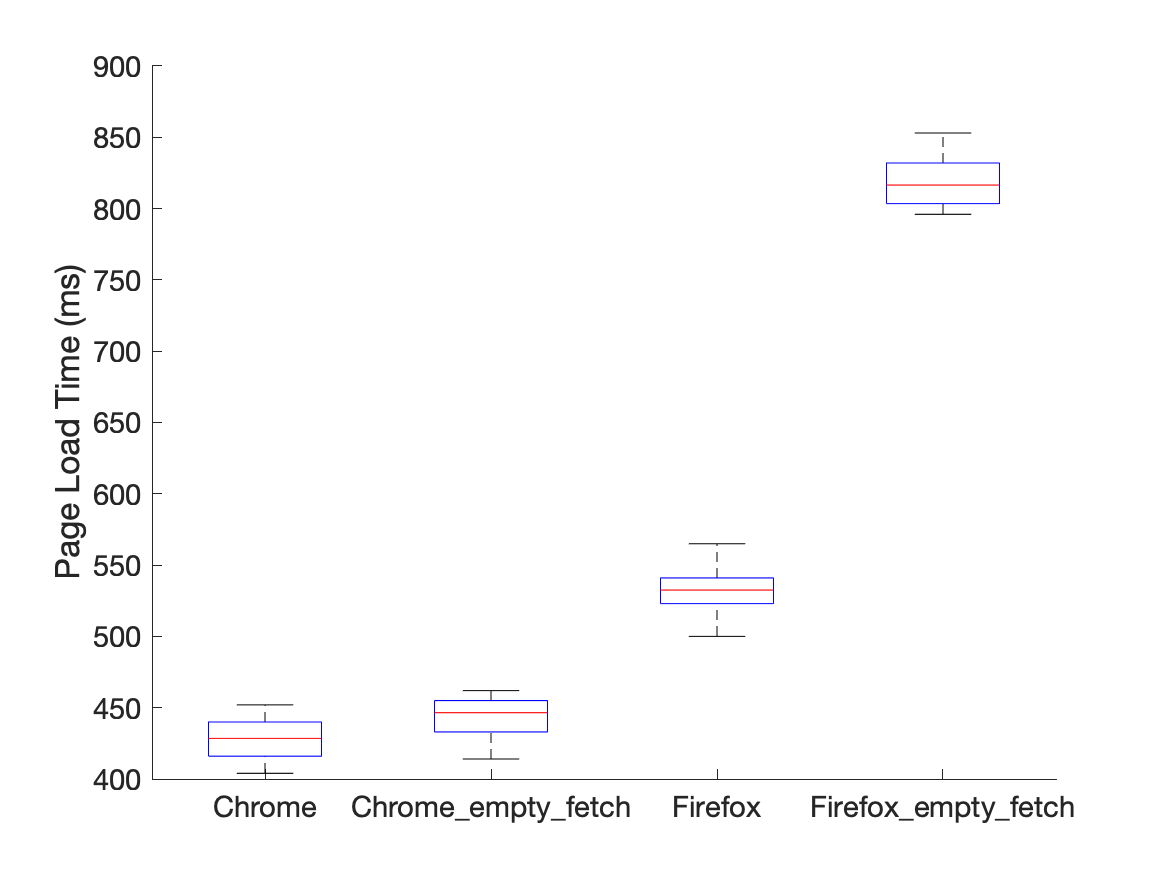
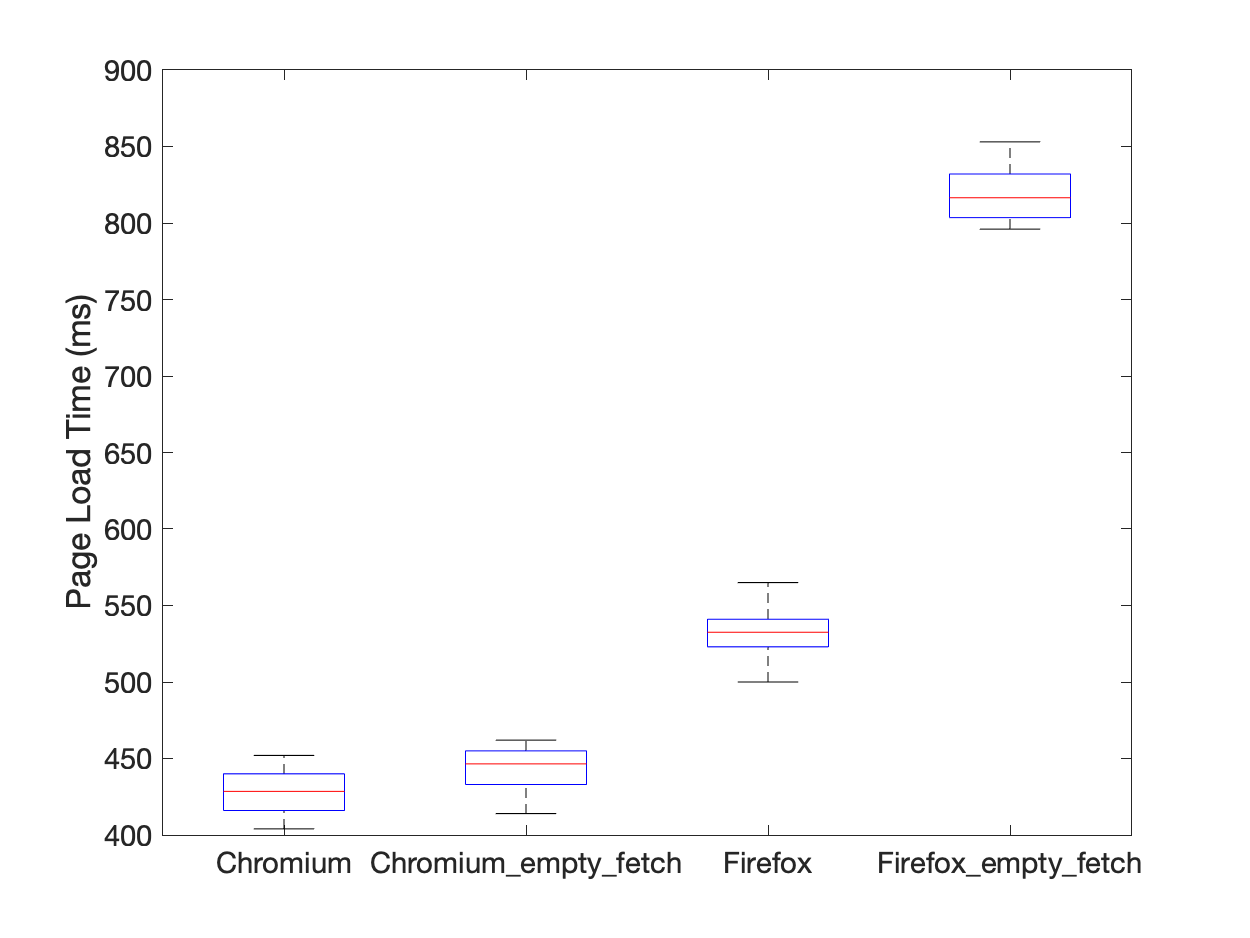
updated

diff --git a/README.md b/README.md
@@ -23,6 +23,6 @@ npm run serve -- --http2 --port=8081
 + Browsers: Chromium 90.0.4427.0, Firefox Nightly: 88.0a1
 + Measure the page load time (PLT) of [`index.html`](https://github.com/SHiftLin/service-worker-benchmark/blob/master/public/index.html) in Chromium and Firefox.
 For each browser, load the page without service worker and with a service worker ([`empty_fetch.js`](https://github.com/SHiftLin/service-worker-benchmark/blob/master/public/empty-fetch.js)), respectively. Run each test case for 20 times. The [`webvisit.js`](https://github.com/SHiftLin/service-worker-benchmark/blob/master/webvisit.js) shows the test script.
-+ As shown the figure below, Firefox has much more overhead of the service worker than Chromium.
++ As shown in the figure below, Firefox has much more overhead of the service worker than Chromium.
 
 <img src="./output/sw_perf.png" width = "600px" alt="SW Performance of Chrome and Firefox"/>
